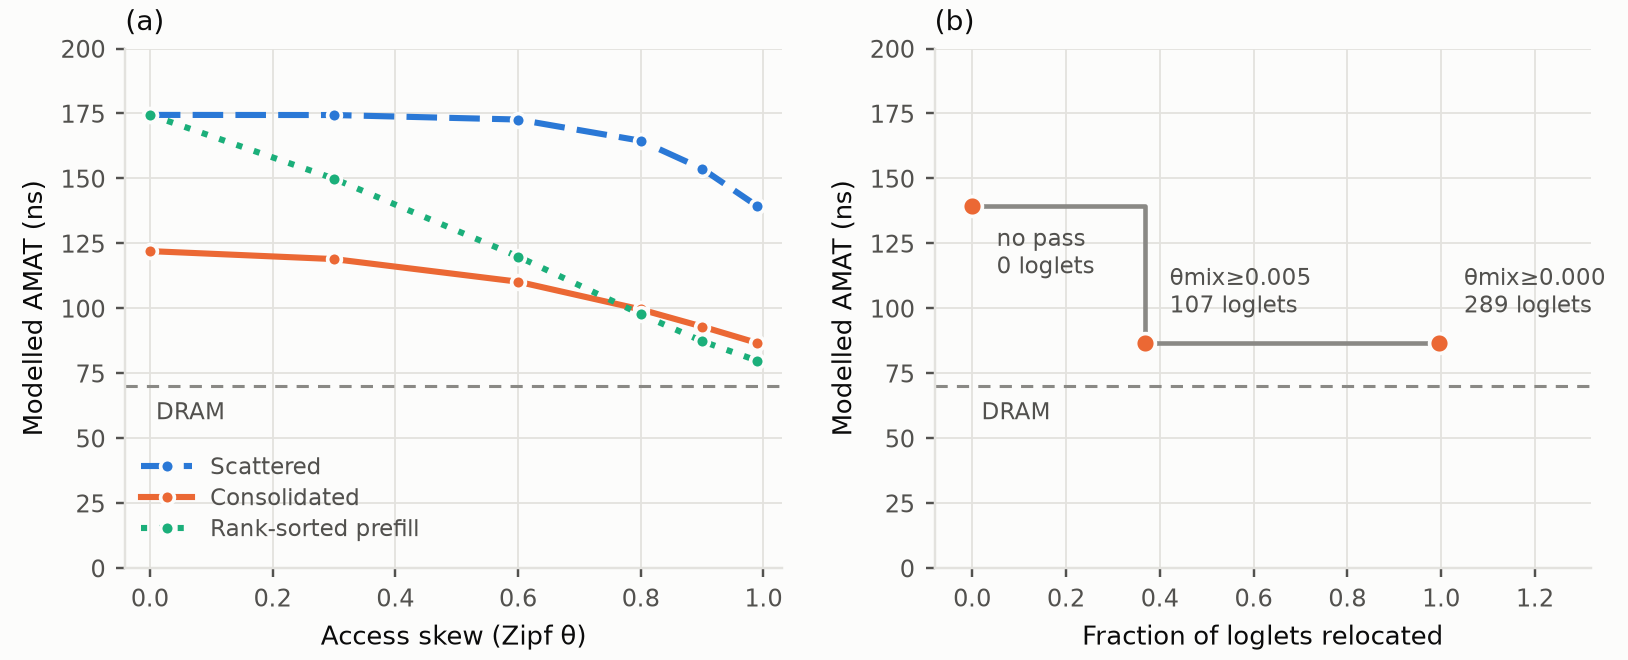
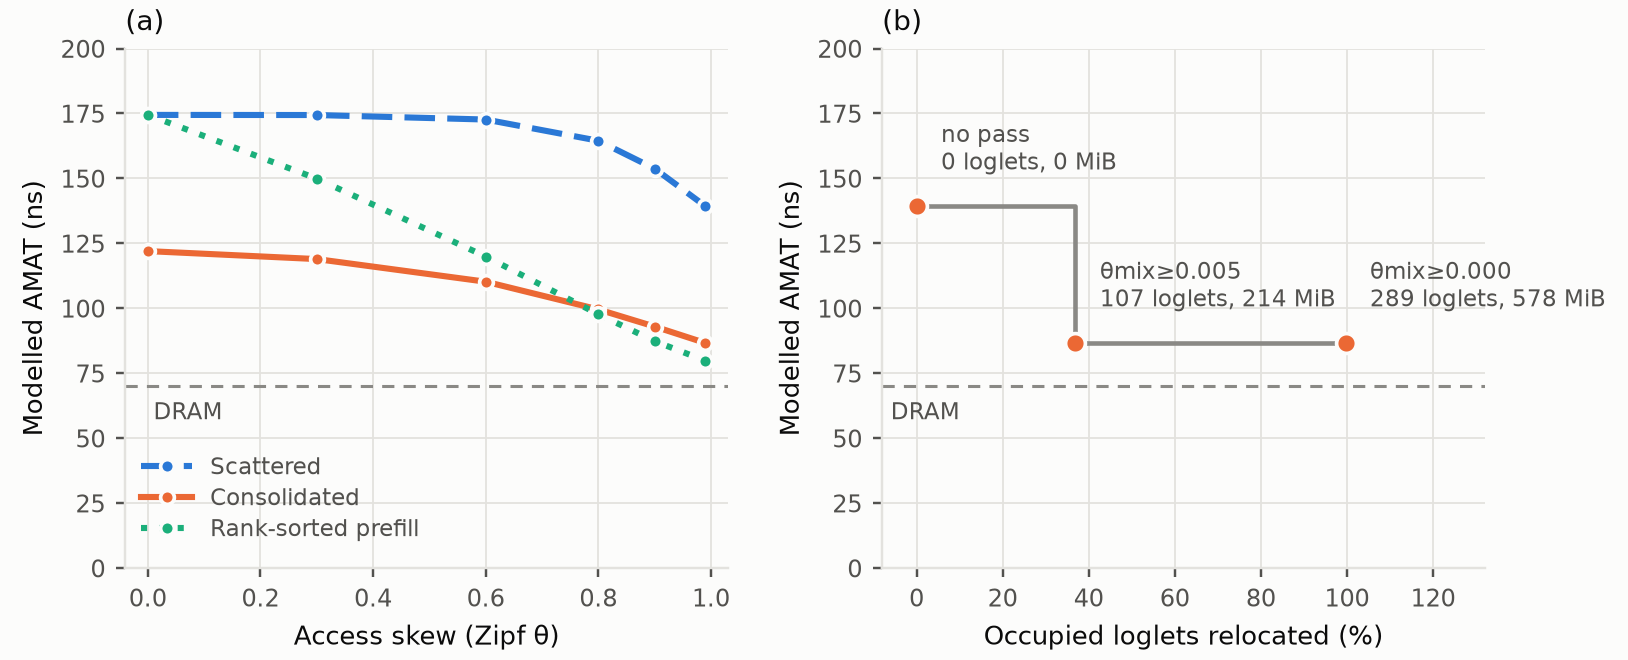
docs/objectier: label the cost axis as percent of occupied loglets
'Fraction of loglets relocated' was ambiguous between two very different
denominators. The bench provisions 8x headroom to keep the compactor idle, so
the heap is 17.7GiB / ~9062 loglets while only 290 hold data. Quoting the cost
against the heap would read 1.2% instead of 37% purely because of that
over-provisioning. The axis now says occupied loglets, in percent, and each
point is annotated with the bytes actually moved.

diff --git a/docs/objectier/plot_v1.py b/docs/objectier/plot_v1.py
@@ -84,27 +84,30 @@ def plot_cost(ax, rows, total_loglets=290):
         seen.setdefault((moved, amat), []).append(thr)
     points = sorted(seen.items())
 
-    xs = [m / total_loglets for (m, _), _ in points]
+    # Percent of the loglets that actually hold data, not of the whole heap:
+    # the bench provisions 8x headroom so the heap is 30x the live set, which
+    # would make any "fraction of heap" figure meaninglessly small.
+    xs = [100.0 * m / total_loglets for (m, _), _ in points]
     ys = [a for (_, a), _ in points]
     ax.step(xs, ys, where="post", color=INK_MUTED, linewidth=1.5, zorder=2)
     ax.scatter(xs, ys, s=42, color=CONSOLIDATED, edgecolor=SURFACE,
                linewidth=1.2, zorder=4)
 
     for (moved, amat), thrs in points:
-        x = moved / total_loglets
+        x = 100.0 * moved / total_loglets
         label = f"θmix≥{min(thrs):.3f}" if moved else "no pass"
-        ax.annotate(f"{label}\n{moved} loglets", (x, amat),
+        ax.annotate(f"{label}\n{moved} loglets, {moved * 2} MiB", (x, amat),
                     textcoords="offset points",
-                    xytext=(8, 10 if moved else -22), fontsize=7.5,
+                    xytext=(8, 12), fontsize=7.5,
                     color=INK_SOFT, ha="left")
 
     ax.axhline(FAST_NS, color=INK_MUTED, linewidth=1, dashes=(4, 3), zorder=1)
-    ax.text(0.02, FAST_NS - 6, "DRAM", fontsize=7.5, color=INK_SOFT,
+    ax.text(-6, FAST_NS - 6, "DRAM", fontsize=7.5, color=INK_SOFT,
             ha="left", va="top")
 
-    ax.set_xlim(-0.08, 1.32)
+    ax.set_xlim(-8, 132)
     ax.set_ylim(0, 200)
-    ax.set_xlabel("Fraction of loglets relocated", fontsize=8.5, color=INK)
+    ax.set_xlabel("Occupied loglets relocated (%)", fontsize=8.5, color=INK)
     ax.set_ylabel("Modelled AMAT (ns)", fontsize=8.5, color=INK)
     ax.set_title("(b)", fontsize=9, color=INK, loc="left", pad=6)
 
